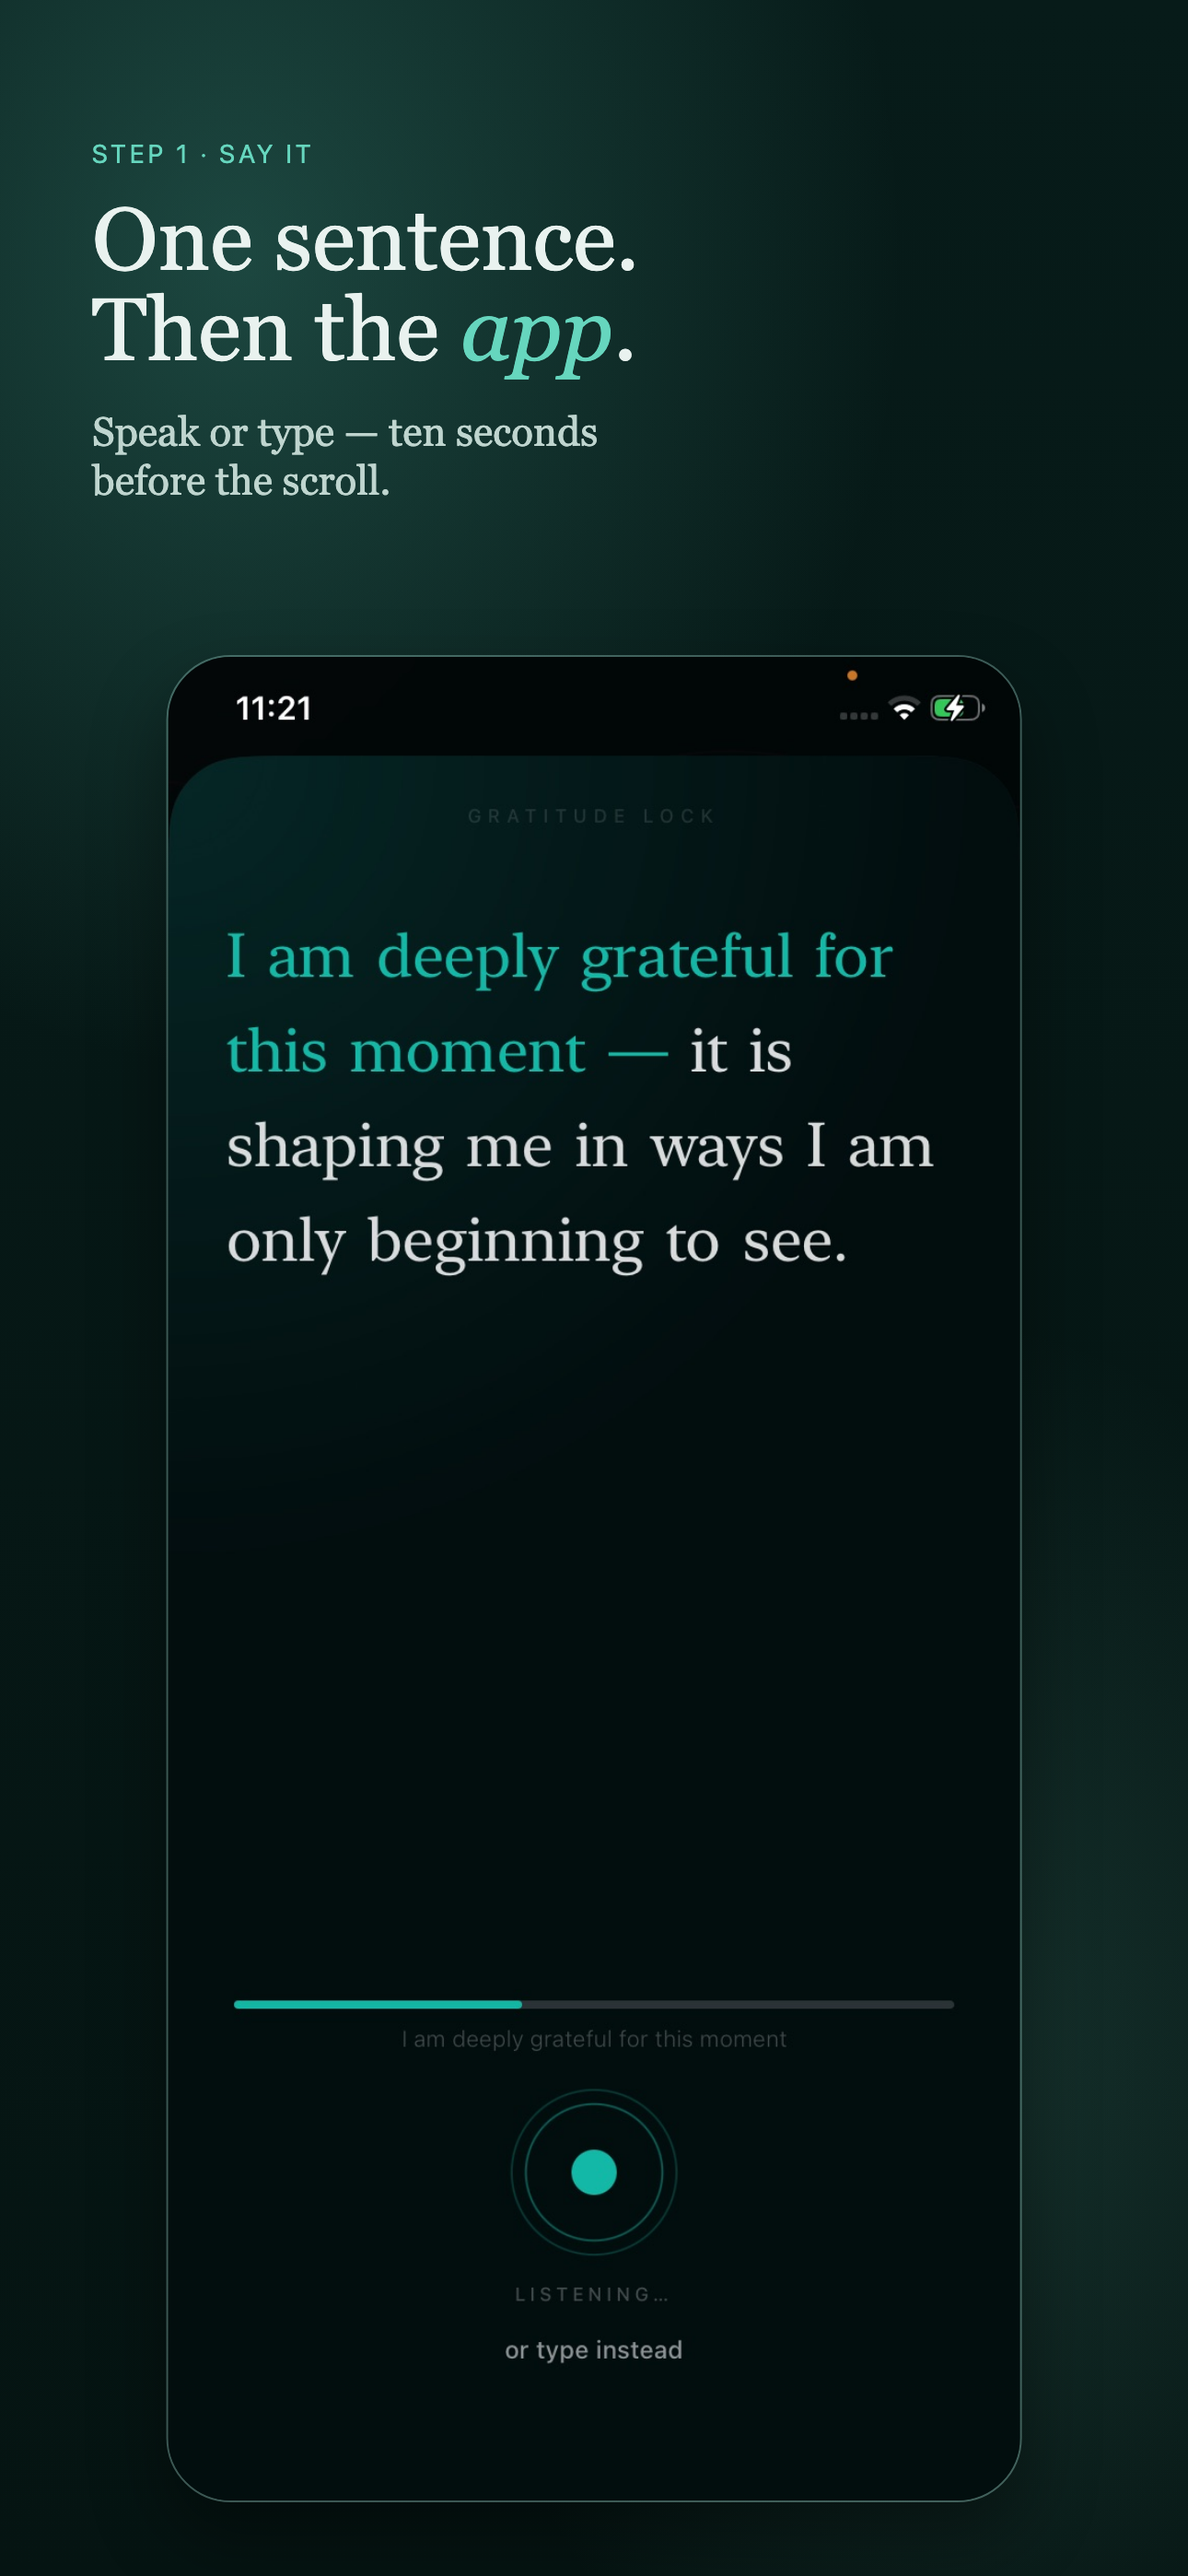
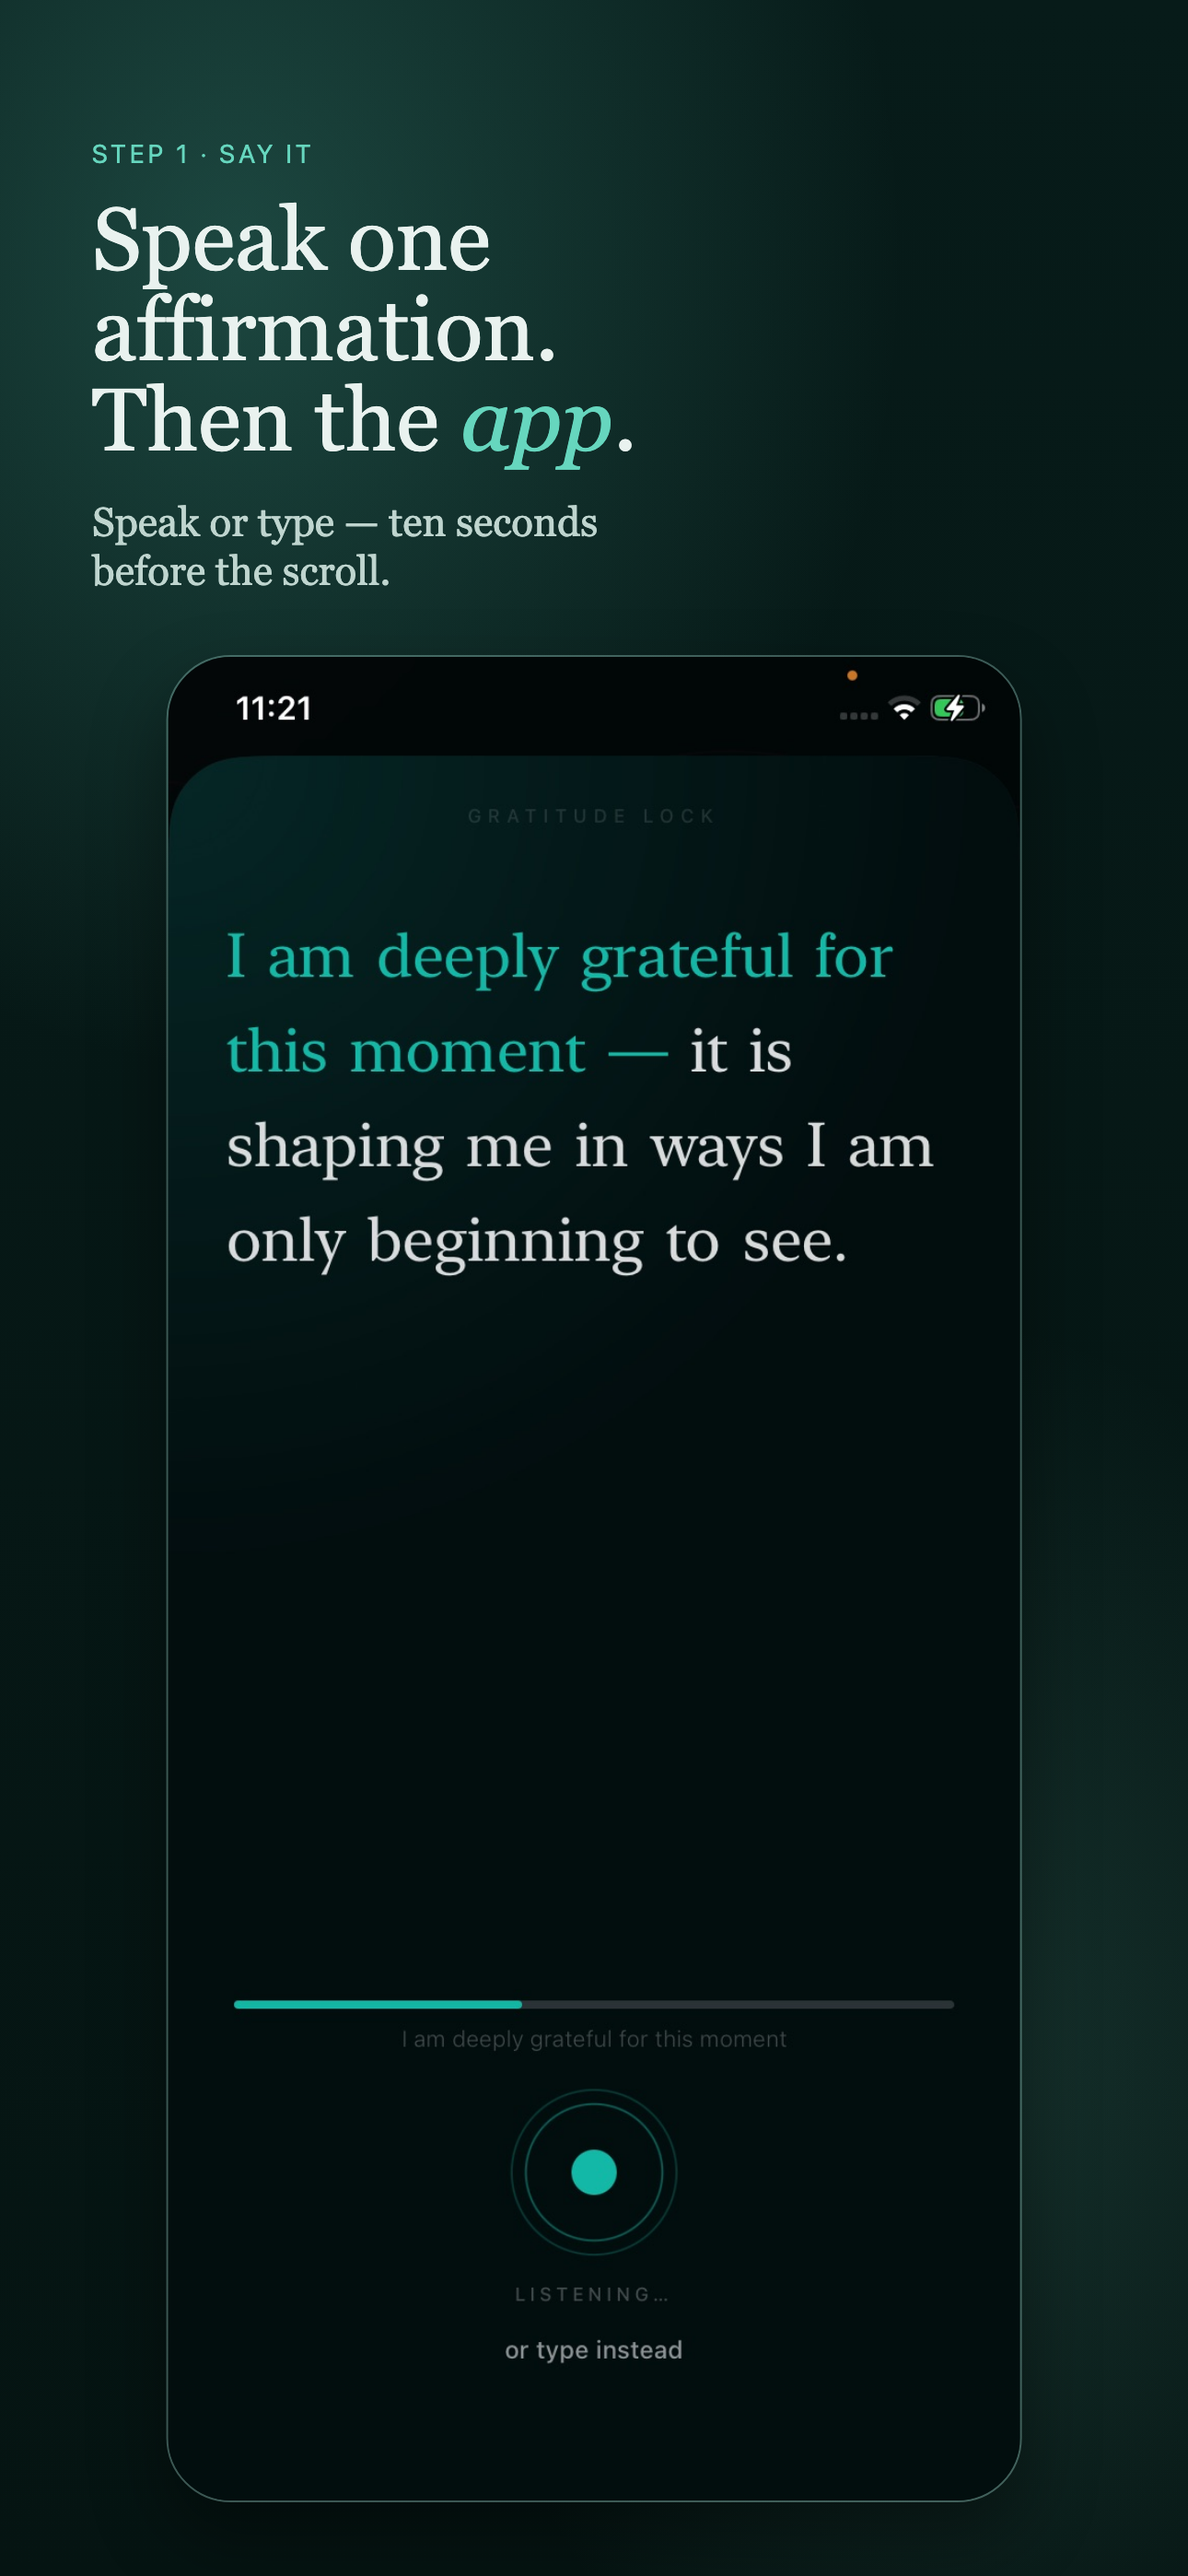
Replace 'one sentence' with 'speak one affirmation' in ASC shot 1.

Changed region(s): [[0.062, 0.0622, 0.5271, 0.2489]]

diff --git a/marketing/appstore/build-assets.py b/marketing/appstore/build-assets.py
@@ -132,7 +132,7 @@ SHOTS = [
     {
         "file": "landing-02.jpg",
         "kicker": "Step 1 · Say It",
-        "headline": "One sentence. Then the <em>app</em>.",
+        "headline": "Speak one affirmation. Then the <em>app</em>.",
         "sub": "Speak or type — ten seconds before the scroll.",
         "out": "01-sentence.png",
     },
